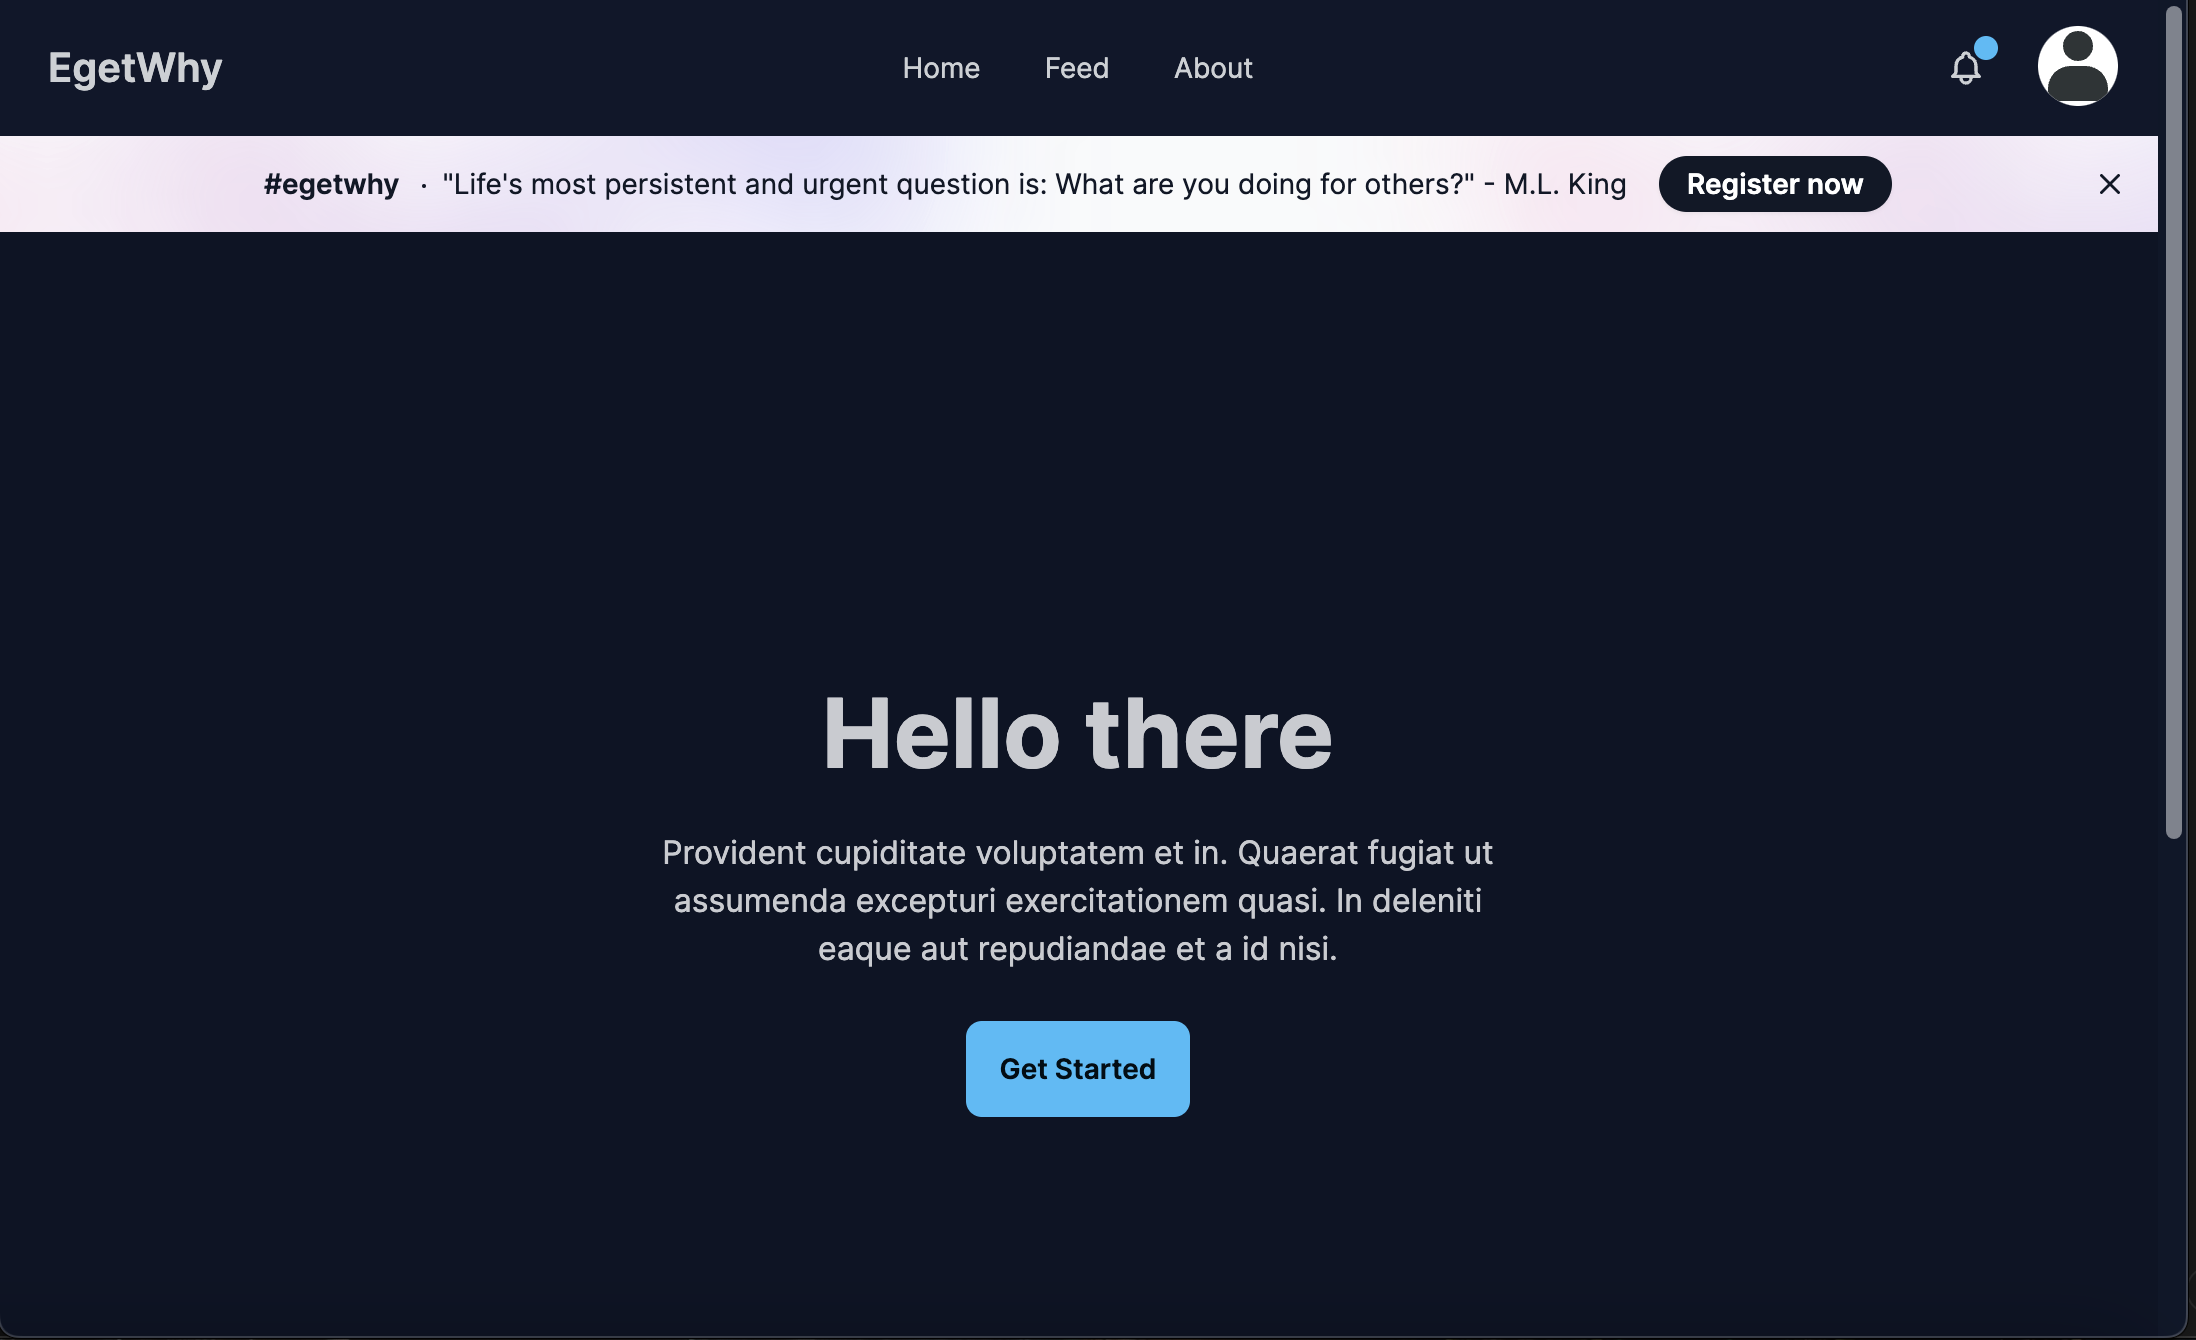
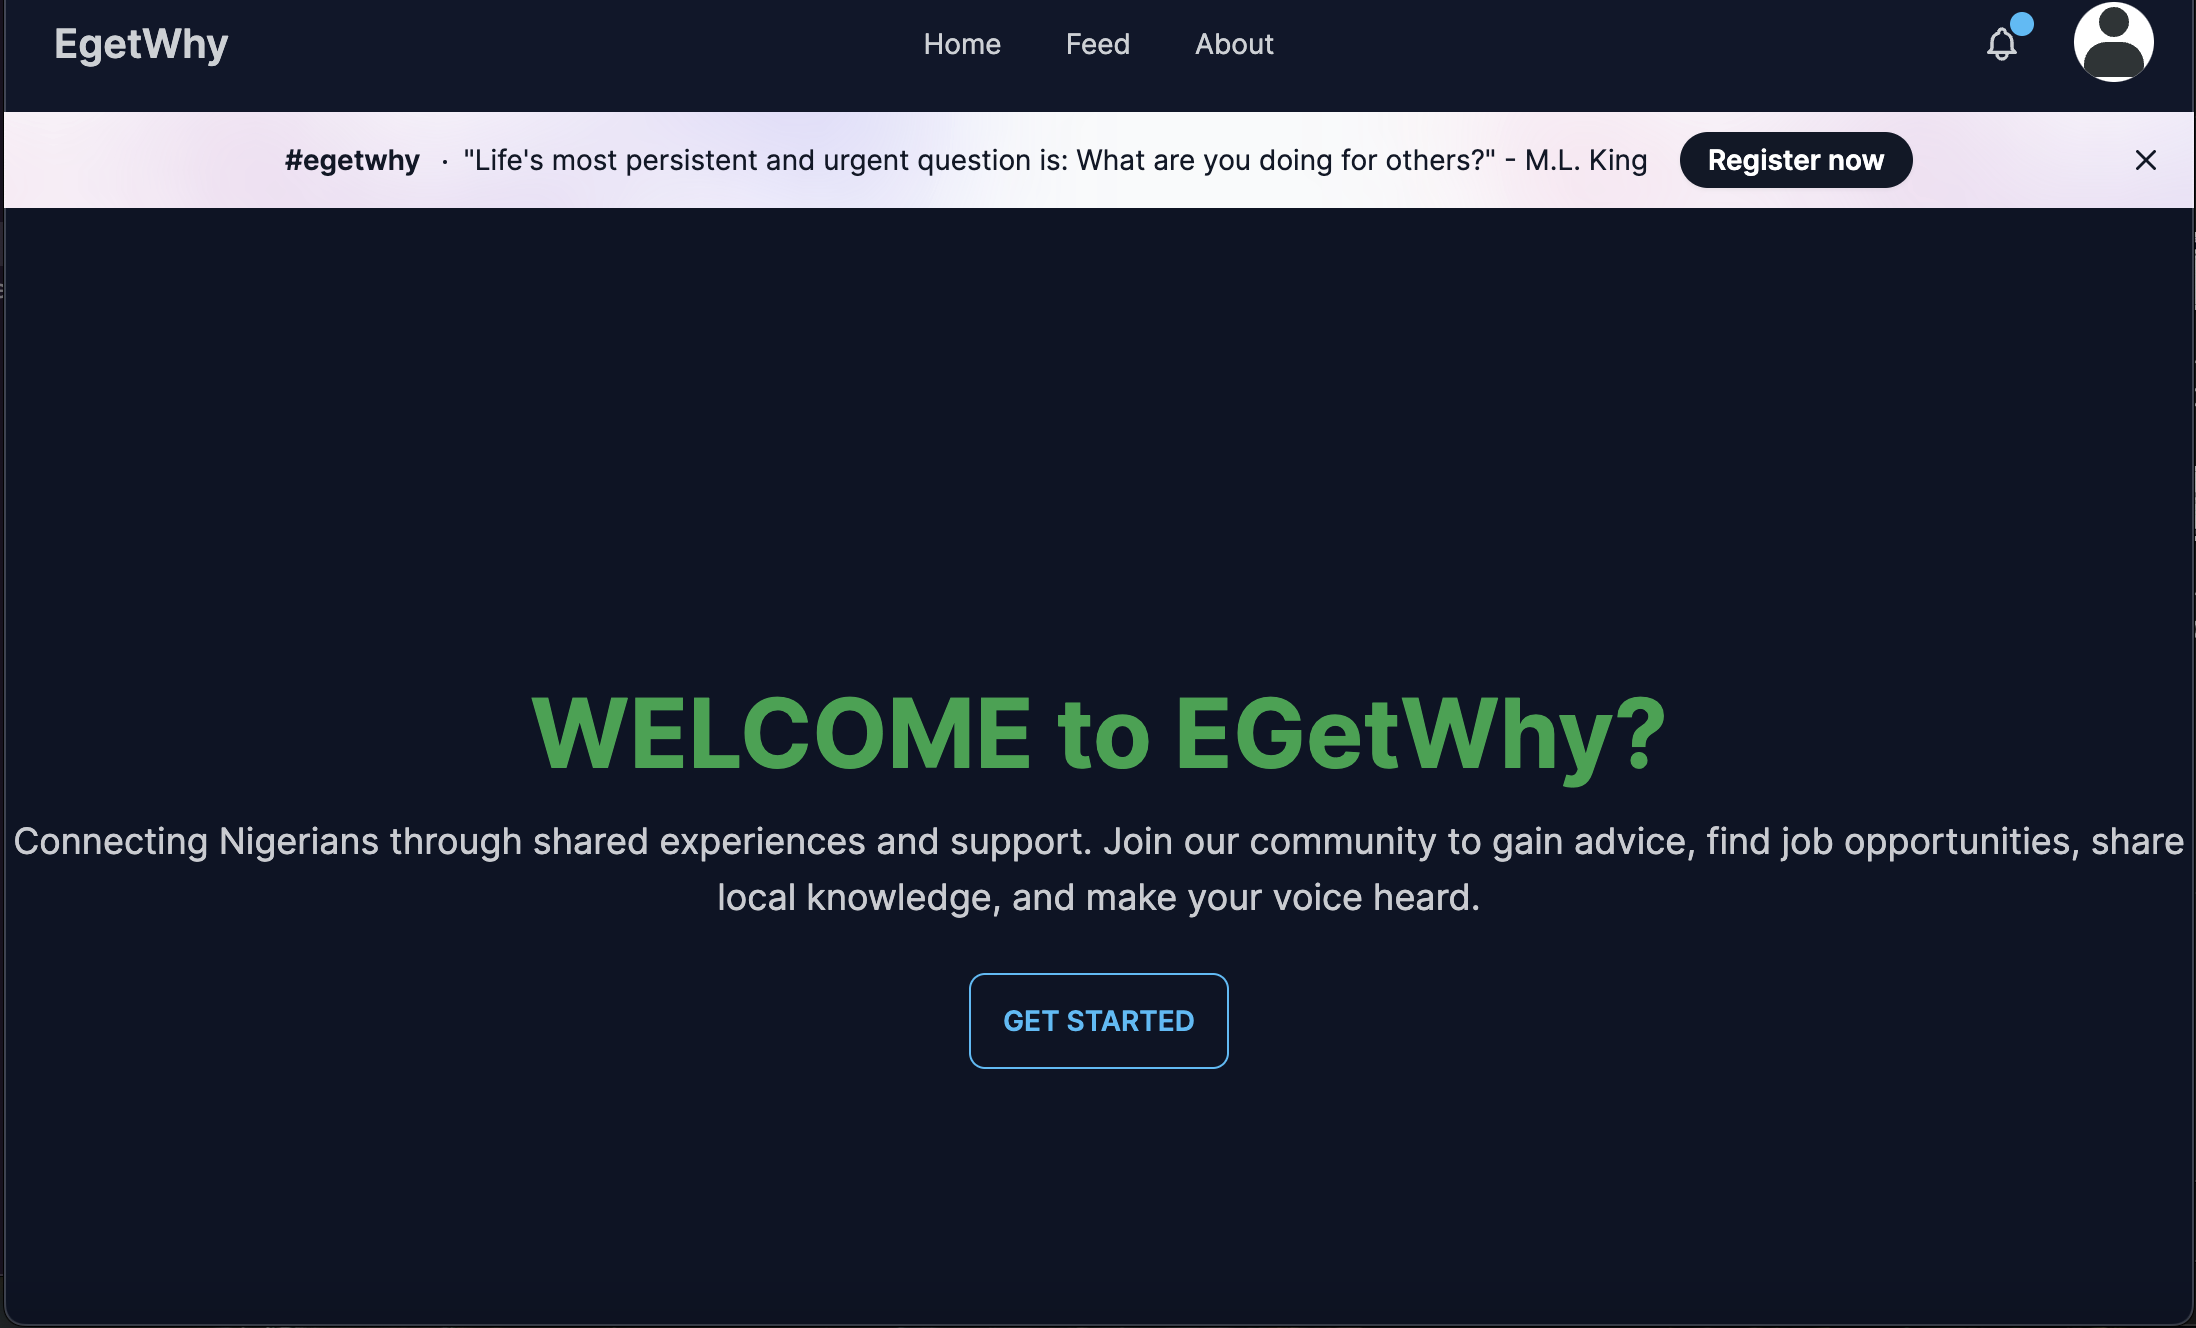
update image in readme.md file

Changed region(s): [[0.0, 0.0, 1.0, 1.0], [0.2168, 0.5248, 0.7741, 0.5866], [0.0, 0.988, 0.031, 1.0]]

diff --git a/frontend/app/components/Hero.tsx b/frontend/app/components/Hero.tsx
@@ -3,7 +3,7 @@ import React from 'react'
 const Hero = () => {
   return (
     <div>
-        <section className="hero bg-base-200 min-h-screen">
+        <section className="hero bg-base-300 min-h-screen">
         <div className="max-w-7xl mx-auto text-center">
           <h1 className="text-5xl font-bold text-green-600 mb-4">WELCOME to EGetWhy?</h1>
           <p className="text-lg mb-6">
